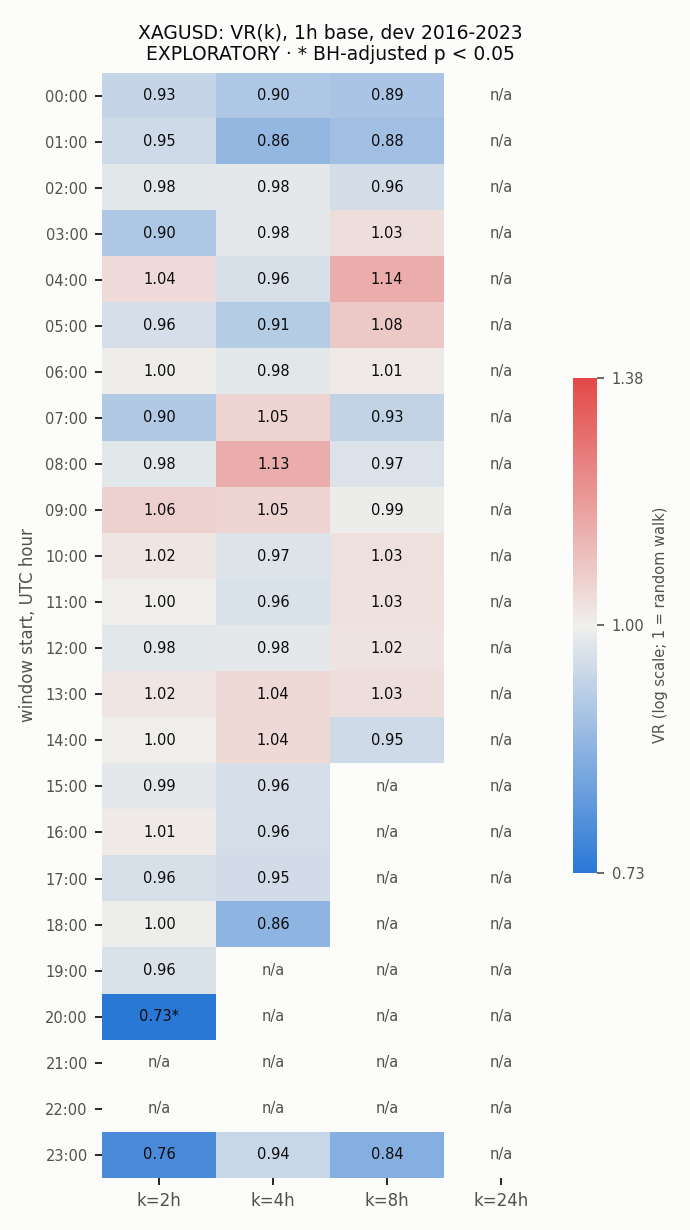
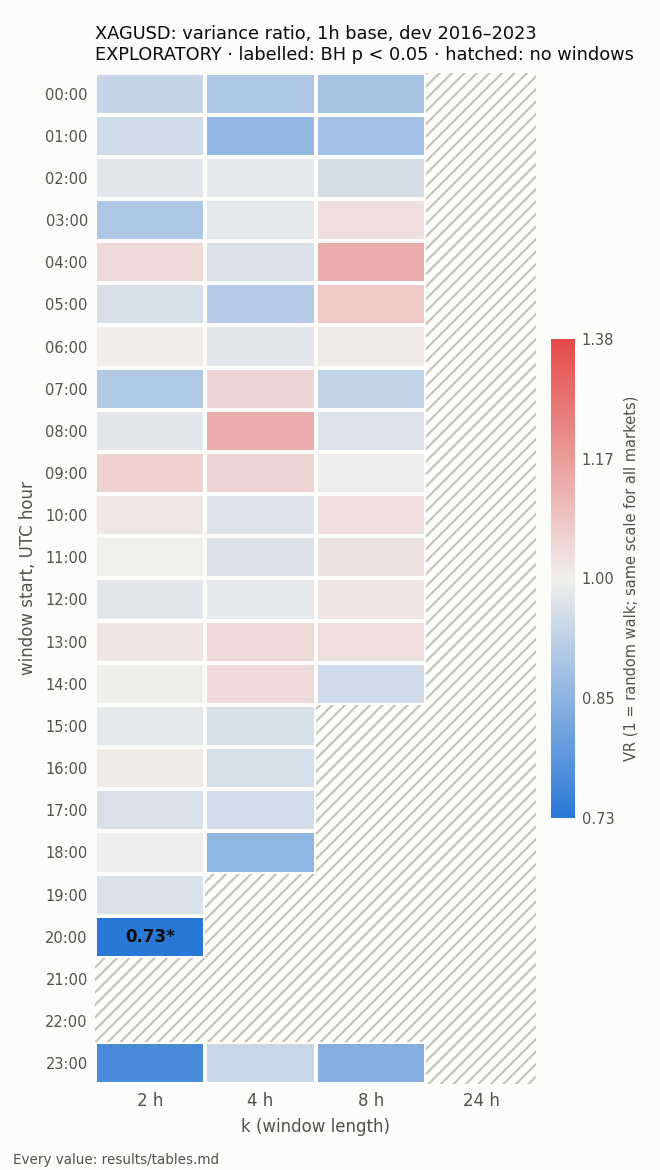
research(variance_ratio): heatmaps on one shared diverging scale, labels only on BH cells, hatched empty cells
Re-rendered from results/vr_cells.csv (vr_run.py --render-only): no data read, no
attempt. Per the dataviz checks: one VR scale across markets (it differed per market),
no number in every cell (all values stay in tables.md), 2px surface gaps between cells,
and cells without windows hatched so they can't read as VR = 1. Diverging poles
#2a78d6 / #e34948 pass the palette validator (CVD dE 21.6, light and dark).

Changed region(s): [[0.0303, 0.0, 0.9697, 1.0], [0.8485, 0.0308, 0.9697, 0.0615]]

diff --git a/research/variance_ratio/vr_run.py b/research/variance_ratio/vr_run.py
@@ -1,7 +1,8 @@
 #!/usr/bin/env python3
 """research/variance_ratio: run the descriptive analysis once (EXPLORATORY).
 
-    python research/variance_ratio/vr_run.py [--markets XAUUSD,...] [--no-bump]
+    python research/variance_ratio/vr_run.py [--markets XAUUSD,...]
+    python research/variance_ratio/vr_run.py --render-only     # redraw the heatmaps from the CSV
 
 Bumps ATTEMPTS.json first (kind descriptive_analysis), then per market: dev
 1-min bars -> base returns with exclusions -> VR(k) per cell -> BH across every
@@ -90,41 +91,56 @@ def run_market(market: str, news: set | None) -> tuple[list[dict], dict]:
     return rows, info
 
 
-def heatmap(df: pd.DataFrame, market: str, path: Path) -> None:
+def heat_limit(df: pd.DataFrame) -> float:
+    """One colour scale for every market: the largest |log2 VR| of any 1h hour cell."""
+    h = df[(df["base"] == "1h") & (df["split"] == "hour_utc")]["vr"].to_numpy(float)
+    return float(np.nanmax(np.abs(np.log2(h)))) if np.isfinite(h).any() else 0.1
+
+
+def heatmap(df: pd.DataFrame, market: str, path: Path, lim: float) -> None:
+    """Hour x k, VR on a diverging scale shared by all markets (blue < 1 < red, gray at 1).
+    Only the BH-marked cells carry a number (every value is in tables.md); a cell
+    without windows is hatched, so it can't read as VR = 1."""
     import matplotlib
     matplotlib.use("Agg")
     import matplotlib.pyplot as plt
     from matplotlib.colors import LinearSegmentedColormap, TwoSlopeNorm
+    from matplotlib.patches import Rectangle
 
+    surface, ink, ink2, muted = "#fcfcfb", "#0b0b0b", "#52514e", "#c3c2b7"
     h = df[(df["market"] == market) & (df["base"] == "1h") & (df["split"] == "hour_utc")]
     vrs = h.pivot(index="cell", columns="k_hours", values="vr").reindex(columns=list(V.KS_HOURS))
-    sig = h.pivot(index="cell", columns="k_hours", values="p_bh").reindex(columns=list(V.KS_HOURS))
-    val = np.log2(vrs.to_numpy(float))
-    lim = max(np.nanmax(np.abs(val)) if np.isfinite(val).any() else 0.1, 0.05)
+    pbh = h.pivot(index="cell", columns="k_hours", values="p_bh").reindex(columns=list(V.KS_HOURS))
+    v = vrs.to_numpy(float)
     cmap = LinearSegmentedColormap.from_list("div", ["#2a78d6", "#f0efec", "#e34948"])
-    cmap.set_bad("#fcfcfb")
-    fig, ax = plt.subplots(figsize=(4.6, 8.2), facecolor="#fcfcfb")
-    ax.set_facecolor("#fcfcfb")
-    im = ax.imshow(np.ma.masked_invalid(val), cmap=cmap, norm=TwoSlopeNorm(0, -lim, lim), aspect="auto")
-    for (i, j), v in np.ndenumerate(vrs.to_numpy(float)):
-        star = "*" if np.isfinite(sig.iat[i, j]) and sig.iat[i, j] < V.BH_Q else ""
-        ax.text(j, i, f"{v:.2f}{star}" if np.isfinite(v) else "n/a", ha="center", va="center",
-                fontsize=7, color="#0b0b0b" if np.isfinite(v) else "#52514e")
-    ax.set_xticks(range(len(V.KS_HOURS)), [f"k={k}h" for k in V.KS_HOURS], fontsize=8, color="#52514e")
-    ax.set_yticks(range(len(vrs)), [f"{c}:00" for c in vrs.index], fontsize=7, color="#52514e")
-    ax.set_ylabel("window start, UTC hour", fontsize=8, color="#52514e")
-    ax.set_title(f"{market}: VR(k), 1h base, dev 2016-2023\nEXPLORATORY · * BH-adjusted p < {V.BH_Q}",
-                 fontsize=9, color="#0b0b0b")
-    for s in ax.spines.values():
-        s.set_visible(False)
-    cb = fig.colorbar(im, ax=ax, fraction=0.05, pad=0.03)
-    ticks = [-lim, 0, lim]
+    fig, ax = plt.subplots(figsize=(4.4, 7.8), facecolor=surface)
+    ax.set_facecolor(surface)
+    mesh = ax.pcolormesh(np.ma.masked_invalid(np.log2(v)), cmap=cmap, norm=TwoSlopeNorm(0, -lim, lim),
+                         edgecolors=surface, linewidth=1.0)
+    for (i, j), x in np.ndenumerate(v):
+        if not np.isfinite(x):
+            ax.add_patch(Rectangle((j, i), 1, 1, facecolor=surface, edgecolor=muted, hatch="////", linewidth=0))
+        elif np.isfinite(pbh.iat[i, j]) and pbh.iat[i, j] < V.BH_Q:
+            ax.text(j + 0.5, i + 0.5, f"{x:.2f}*", ha="center", va="center", fontsize=8, color=ink, weight="bold")
+    ax.invert_yaxis()
+    ax.set_xticks(np.arange(len(V.KS_HOURS)) + 0.5, [f"{k} h" for k in V.KS_HOURS], fontsize=8, color=ink2)
+    ax.set_yticks(np.arange(len(vrs)) + 0.5, [f"{c}:00" for c in vrs.index], fontsize=7, color=ink2)
+    ax.tick_params(length=0)
+    ax.set_xlabel("k (window length)", fontsize=8, color=ink2)
+    ax.set_ylabel("window start, UTC hour", fontsize=8, color=ink2)
+    ax.set_title(f"{market}: variance ratio, 1h base, dev 2016–2023\nEXPLORATORY · labelled: BH p < {V.BH_Q} · "
+                 "hatched: no windows", fontsize=8.5, color=ink, loc="left")
+    for sp in ax.spines.values():
+        sp.set_visible(False)
+    cb = fig.colorbar(mesh, ax=ax, fraction=0.05, pad=0.03)
+    ticks = [-lim, -lim / 2, 0, lim / 2, lim]
     cb.set_ticks(ticks, labels=[f"{2 ** t:.2f}" for t in ticks])
-    cb.ax.tick_params(labelsize=7, colors="#52514e")
+    cb.ax.tick_params(labelsize=7, colors=ink2, length=0)
     cb.outline.set_visible(False)
-    cb.set_label("VR (log scale; 1 = random walk)", fontsize=7, color="#52514e")
-    fig.tight_layout()
-    fig.savefig(path, dpi=150, facecolor="#fcfcfb")
+    cb.set_label("VR (1 = random walk; same scale for all markets)", fontsize=7, color=ink2)
+    fig.text(0.02, 0.005, "Every value: results/tables.md", fontsize=6.5, color=ink2)
+    fig.tight_layout(rect=(0, 0.015, 1, 1))
+    fig.savefig(path, dpi=150, facecolor=surface)
     plt.close(fig)
 
 
@@ -147,12 +163,23 @@ def table_md(df: pd.DataFrame, market: str) -> str:
     return "\n".join(lines) + "\n"
 
 
+def render(df: pd.DataFrame, markets) -> None:
+    lim = heat_limit(df)
+    for mk in markets:
+        heatmap(df, mk, RESULTS / f"heatmap_{mk}.png", lim)
+
+
 def main(argv=None) -> int:
     ap = argparse.ArgumentParser()
     ap.add_argument("--markets", default=",".join(V.MARKETS))
     ap.add_argument("--calendar", type=Path, default=ROOT / D.CALENDAR_KEY)
+    ap.add_argument("--render-only", action="store_true",
+                    help="redraw the heatmaps from results/vr_cells.csv; reads no data, bumps nothing")
     a = ap.parse_args(argv)
     markets = a.markets.split(",")
+    if a.render_only:
+        render(pd.read_csv(RESULTS / "vr_cells.csv", dtype={"cell": str}), markets)
+        return 0
     prereg = HERE / "PREREG.md"
     status = subprocess.run(["git", "status", "--porcelain", "--", str(prereg)], cwd=ROOT, capture_output=True,
                             text=True, check=True).stdout
@@ -180,8 +207,7 @@ def main(argv=None) -> int:
     (RESULTS / "summary.json").write_text(json.dumps(summary, indent=1, default=str) + "\n")
     md = "".join(table_md(df, mk) + "\n" for mk in markets)
     (RESULTS / "tables.md").write_text(md)
-    for mk in markets:
-        heatmap(df, mk, RESULTS / f"heatmap_{mk}.png")
+    render(df, markets)
     print(f"done: {len(df)} cells, {summary['bh_q_lt_005']} with BH p < {V.BH_Q}")
     return 0
 

diff --git a/research/variance_ratio/REPORT.md b/research/variance_ratio/REPORT.md
@@ -76,6 +76,11 @@ Each cell is VR / z / n (windows). `*` marks a BH-adjusted p below 0.05, over al
 - **Every cell:** `results/tables.md` has one table per market, with VR / z / n for every
   base, split, cell and k. `results/vr_cells.csv` has the same, with p and BH p.
 - **Heatmaps** of hour × k, VR on the 1-hour base, are in `results/heatmap_<market>.png`.
+  - One diverging scale serves all four markets: blue < 1 < red, gray at 1.
+  - Only BH-marked cells carry a number.
+  - Hatched cells have no windows.
+  - They were re-rendered from `vr_cells.csv` (`vr_run.py --render-only`). That reads no data
+    and isn't a new attempt.
 
 What stands out (none of it BH-significant except the 20:00 UTC cells):
 - **Hour:** in the metals, windows that end at the daily break lean below 1:
